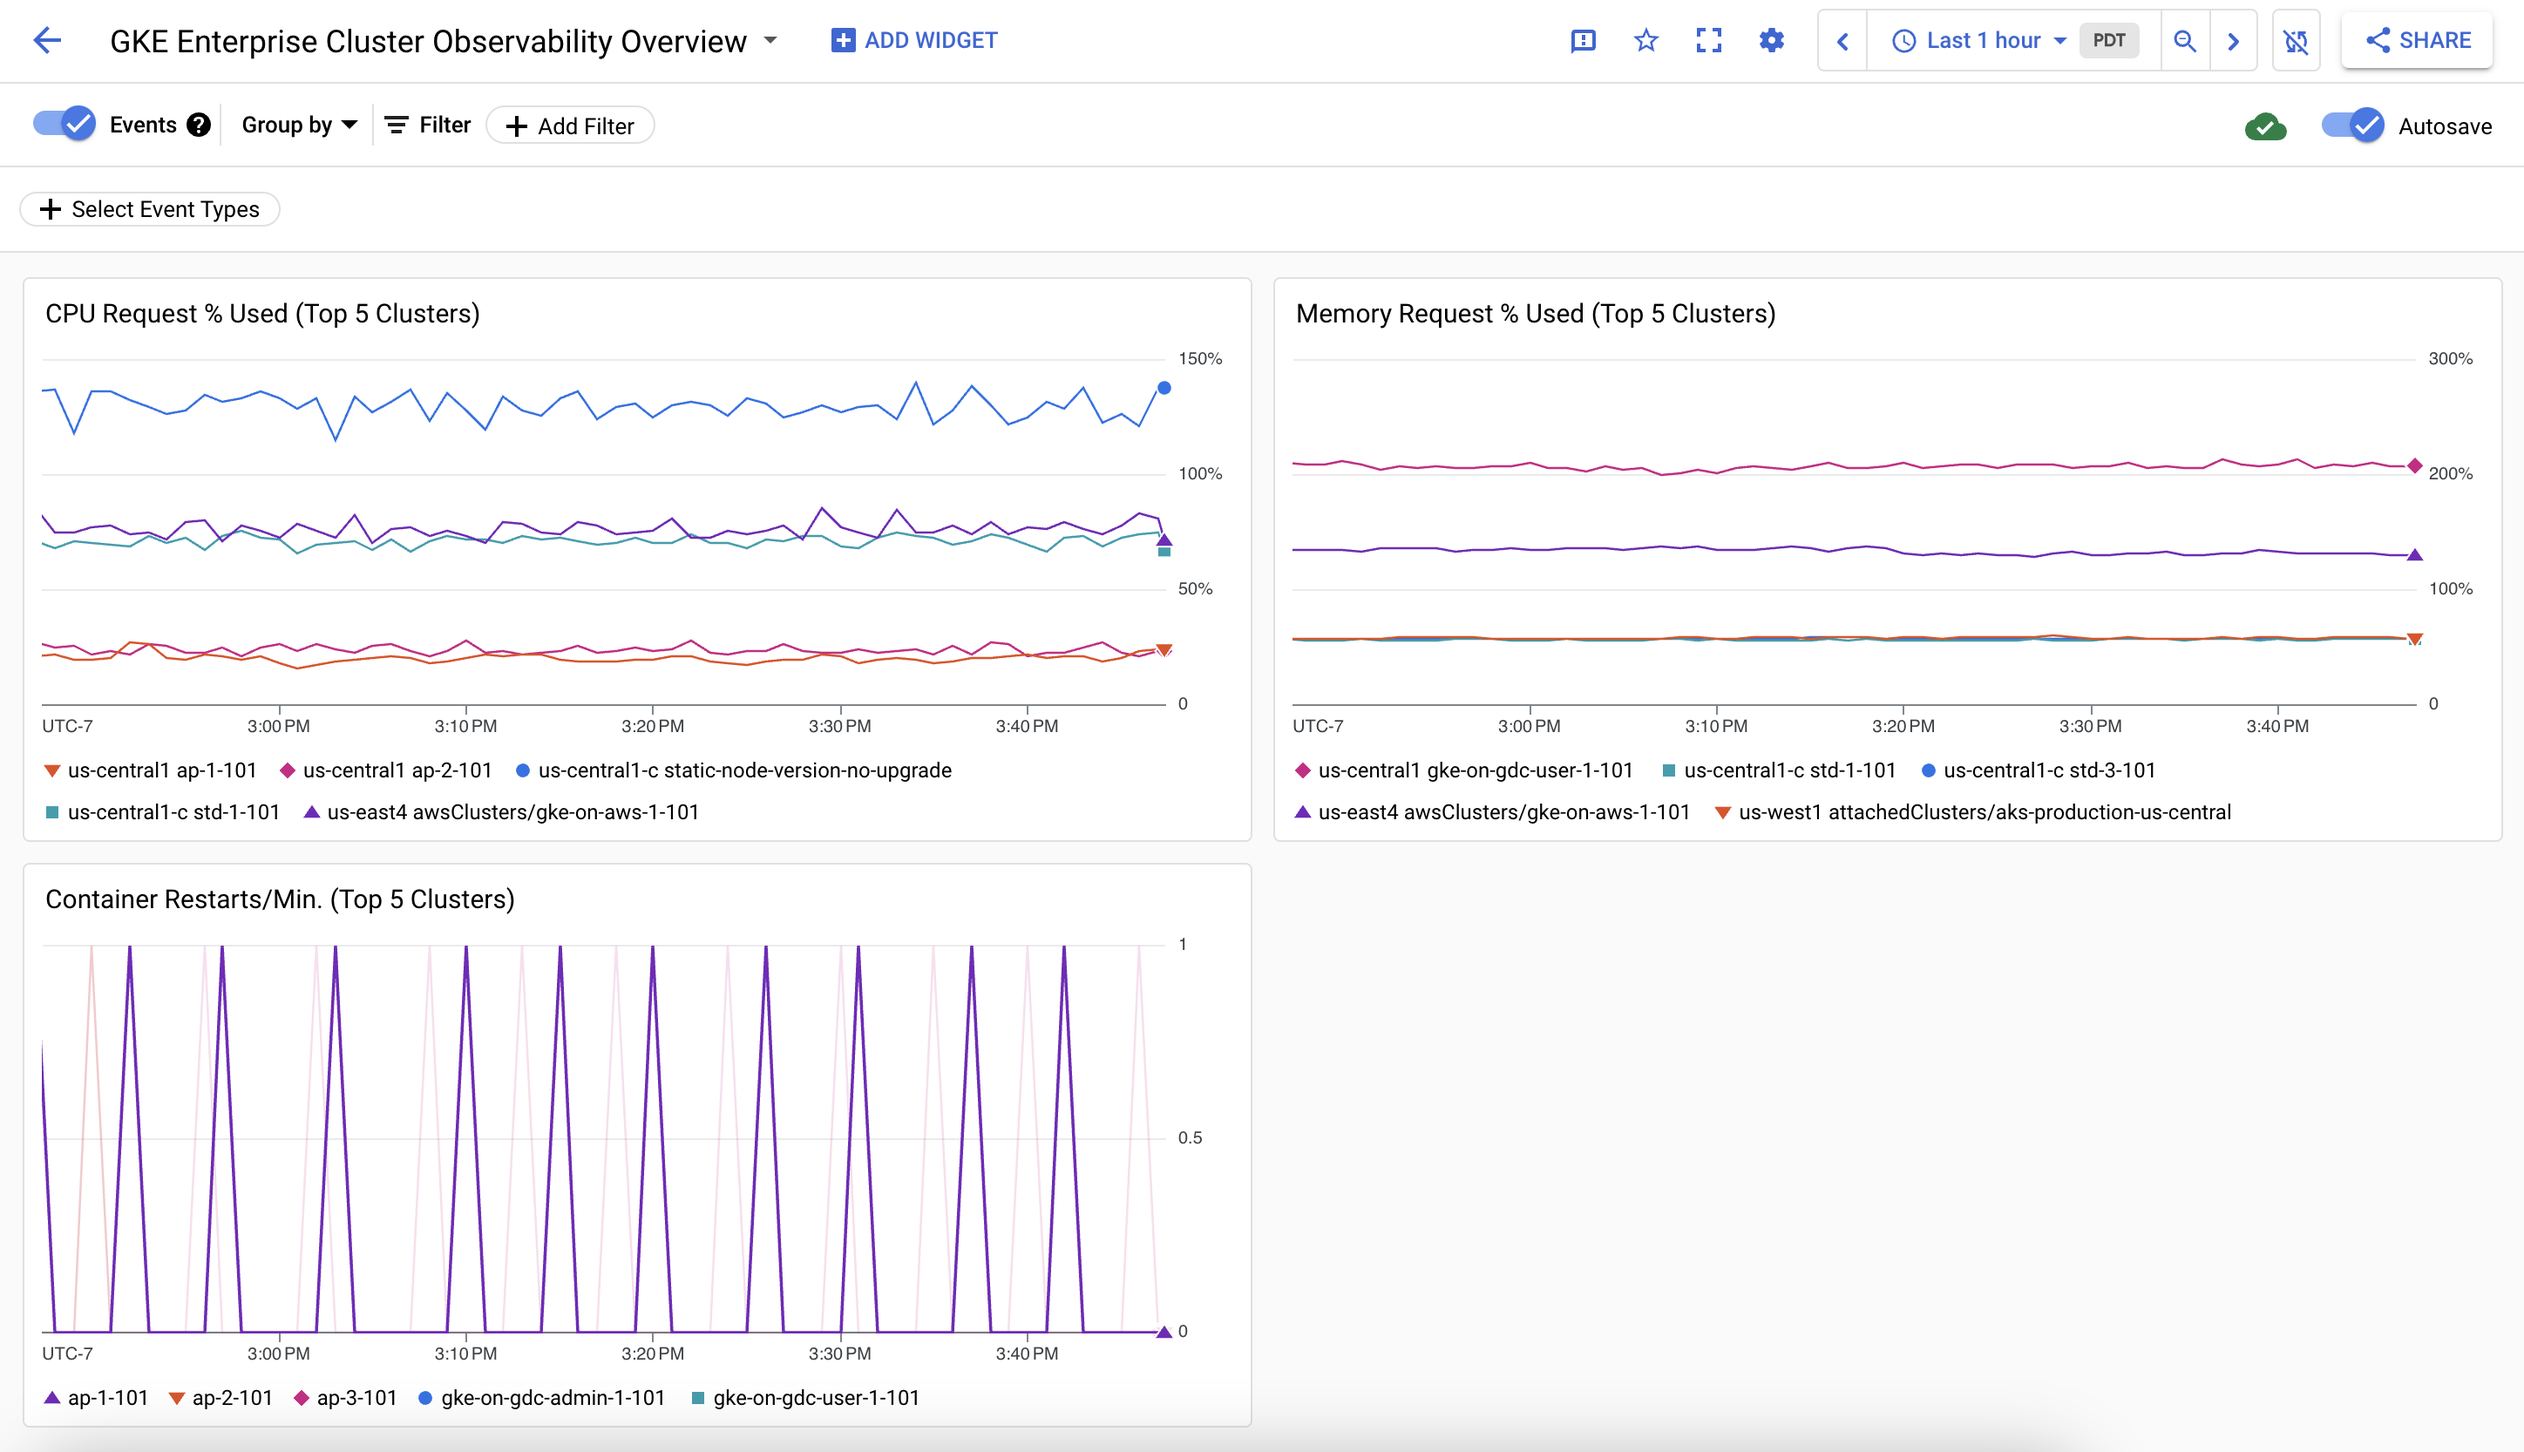
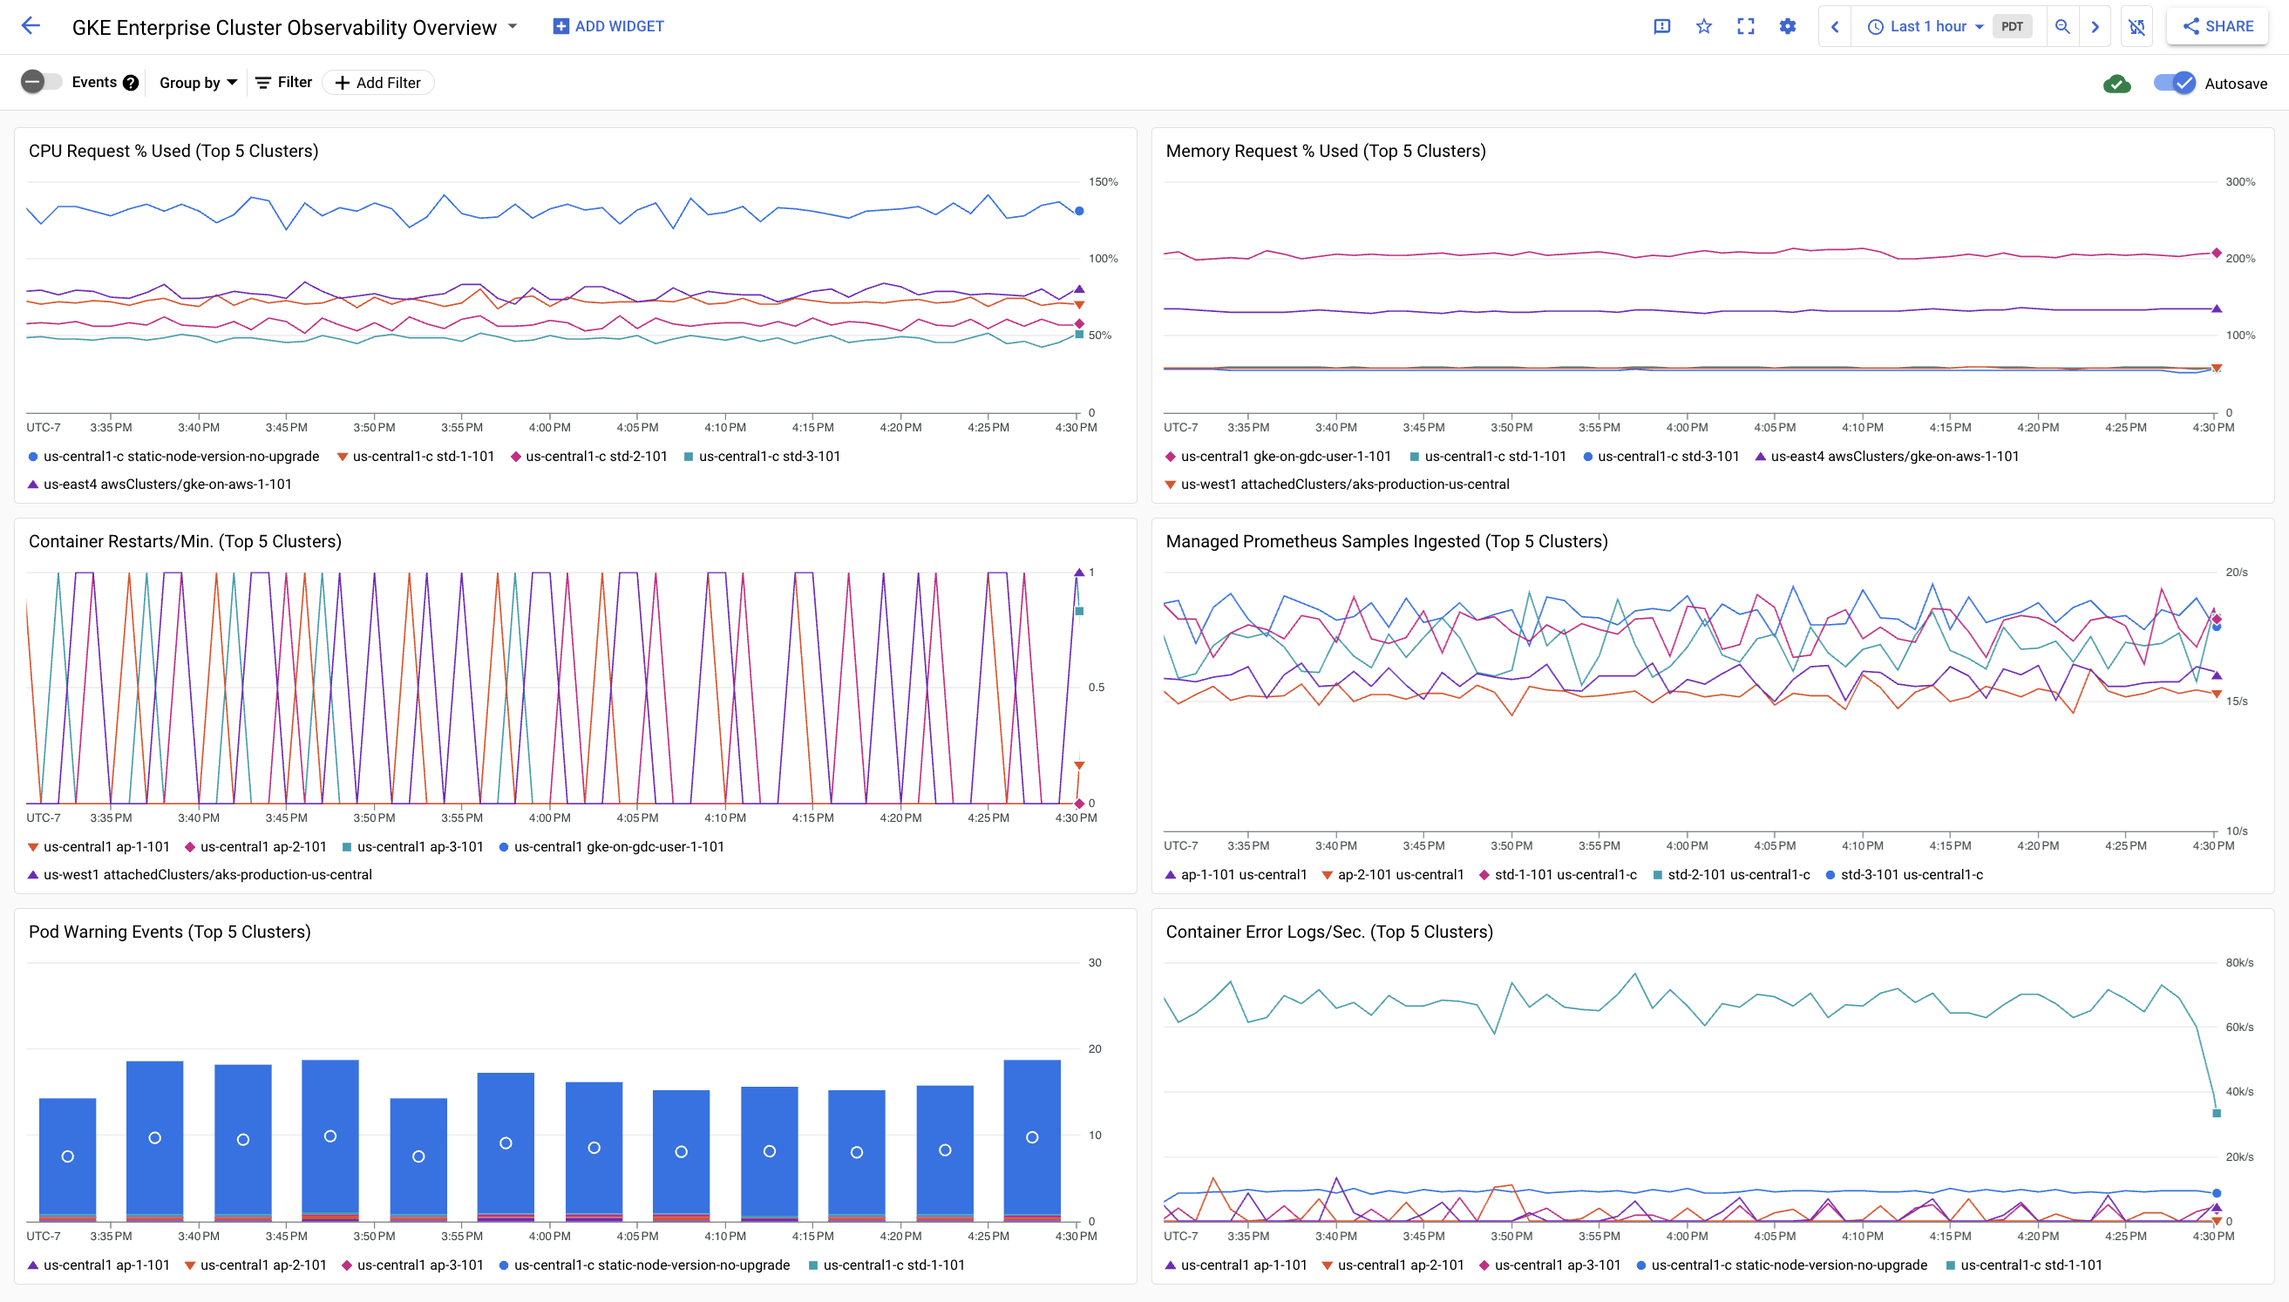
feat(gkee): add 3 overview charts

diff --git a/dashboards/google-kubernetes-engine-enterprise/README.md b/dashboards/google-kubernetes-engine-enterprise/README.md
@@ -3,4 +3,4 @@
 |Google Kubernetes Engine (GKE) Enterprise Cluster Observability Overview|
 |:---------------------|
 |Filename: [gke-enterprise-cluster-observability-overview.json](gke-enterprise-cluster-observability-overview.json)|
-|This dashboard has 3 charts using the related [Google Kubernetes Engine (GKE) metrics](https://cloud.google.com/monitoring/api/metrics_kubernetes) and [GKE attached clusters metrics](https://cloud.google.com/kubernetes-engine/multi-cloud/docs/attached/eks/reference/versions/v1.29.0-gke.2/metrics).|
+|This dashboard has 6 charts using the related [Google Kubernetes Engine (GKE) metrics](https://cloud.google.com/monitoring/api/metrics_kubernetes) and [GKE attached clusters metrics](https://cloud.google.com/kubernetes-engine/multi-cloud/docs/attached/eks/reference/versions/v1.29.0-gke.2/metrics).|
